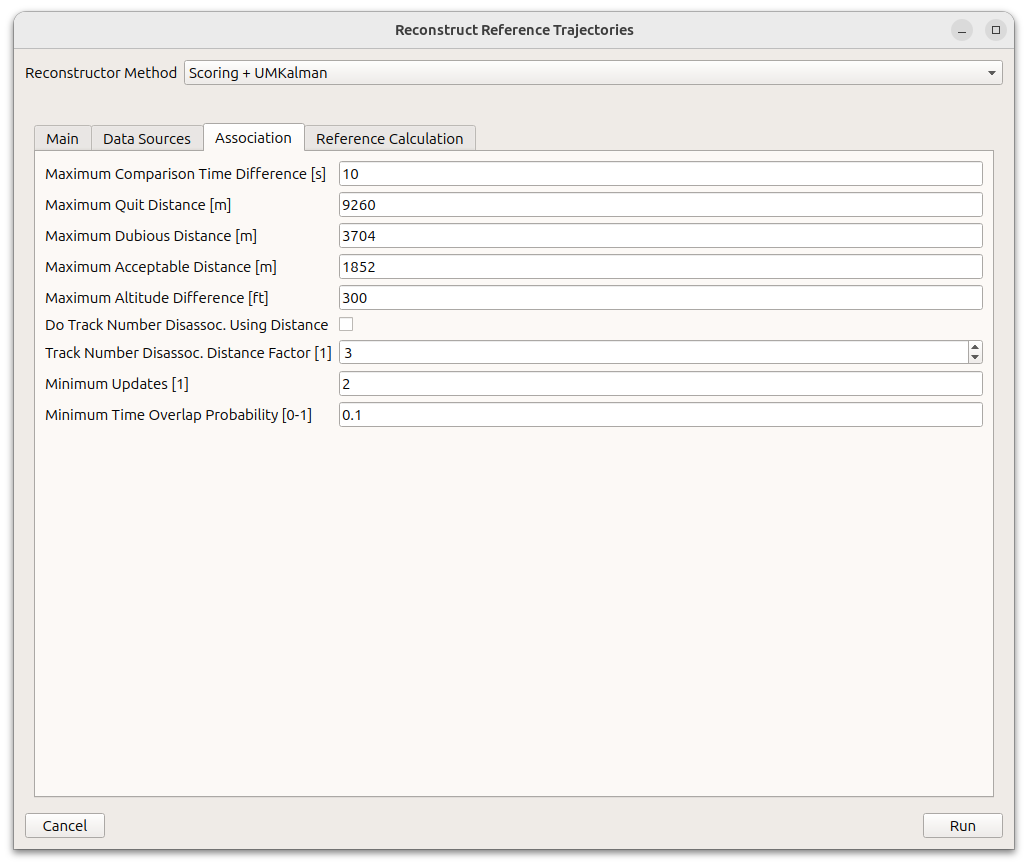
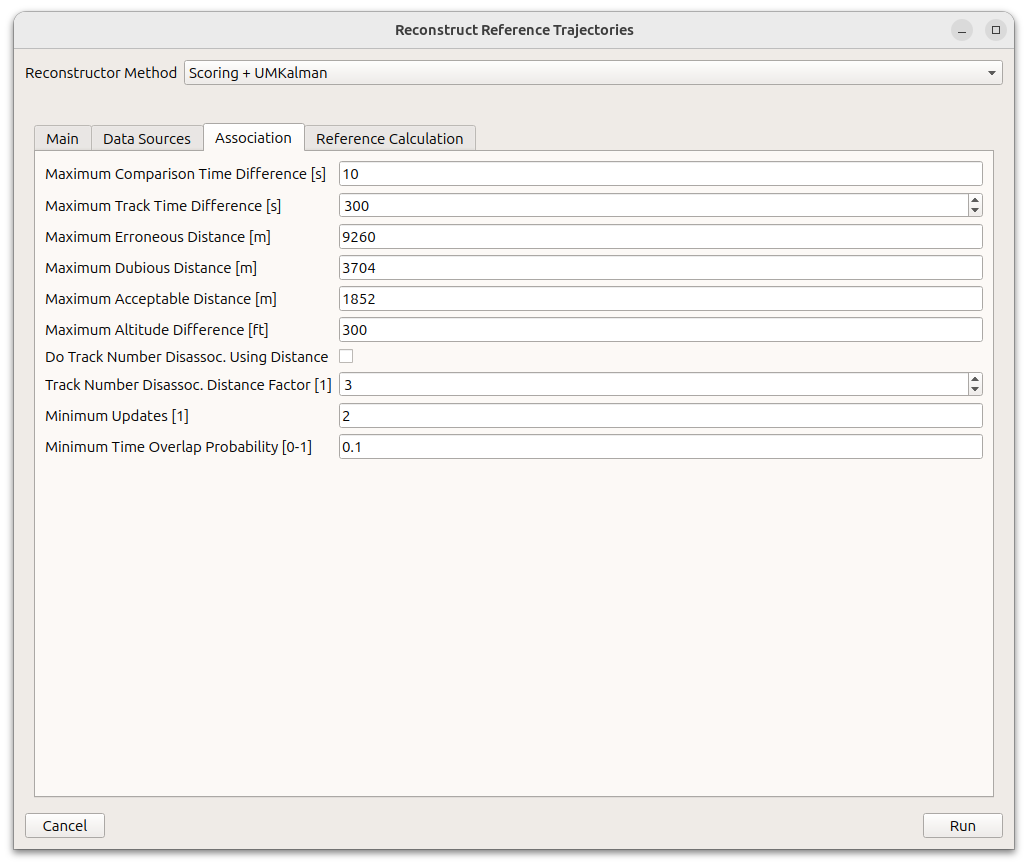
param naming and doc

Changed region(s): [[0.0311, 0.2182, 0.965, 0.53], [0.9339, 0.2182, 0.965, 0.2494]]

diff --git a/doc/user_manual/reconst/reconstructor.tex b/doc/user_manual/reconst/reconstructor.tex
@@ -53,7 +53,7 @@ For each processed slice, the following general steps are performed:
 \end{itemize}
 \ \\
 
-There are several algorithmic features of interest, which are described in the following chapters, but deeper discussion is ouside the scope of this document.
+There are several algorithmic features of interest, which are described in the following chapters, but deeper discussion is outside the scope of this document.
 
 \subsection{Associate Target Reports to Targets}
 
@@ -66,33 +66,42 @@ The following steps are performed for each target report:
 \begin{itemize}
 \item Ignoring "00000000", "????????", "        " values
 \end{itemize}
-\item CAT062/Reference Trajectory Track number
+\item CAT062/Reference Trajectory Track number (data source + line specific)
 \end{itemize}
 \item Otherwise, associate by matching Mode A/C and position
 \item Otherwise, associate by position only
+\item If a matching target is found, the best match is used for association
+\item If no matching target is found
+\begin{itemize}
+\item If the target report has Mode S address/identification or a reliable Track Number, a new target is created
+\item Otherwise no association is made (stored for later retry-association)
 \end{itemize}
 \ \\
 
-If a match can be made, the target report is associated to the specific UTN, which in turn (can) update the respective lookup lists.
+If a match can be made, the match is verified - e.g. the matching based on Track Number can be changed if e.g. the time difference to the last target update is larger than the 'Maximum Track Time Difference' parameter, or of the distance threshold is larger than the 'Track Number Disassoc. Distance Factor', assuming the 'Do Track Number Disassoc. Using Distance' is set. \\
+
+If still valid, the target report is associated to the specific UTN, which in turn updates the respective lookup lists.
 
 \subsubsection{Position Matching}
-sdf
+
+For considering a position match, a position score is calculated for each target report, to all possible targets. In the case of 'Scoring + UMKalman', the distance offsets (target report to interpolated target position at time of target report) are compared to the 'Maximum Acceptable Offset', and only associated to the best match if within such a distance.
 
 \subsubsection{New Target Creation}
-sdf2
+
+When creating a new target using a target report, the secondary attributes are stored in the lookup lists of targets.
 
 \subsection{Self-associate New Targets}
 
+For all newly created targets, matching other targets are checked if a positive score would allow merging the target pair. This allows merging created targets even if single target reports (e.g. during the somewhat unstable beginning of tracking) did not allow for it.
+
 \begin{itemize}
-\item Per-source target to common target association (target/target association)
-\item Score-based approach
-\item Associates new per-source targets to existing targets based on
+\item Associate new per-source targets to existing targets based on
 \begin{itemize}
 \item Mode S address
 \item Time overlap
-\item Mode A code(s) similiarity (only if minimum time overlap is given)
-\item Mode C code(s) similiarity (only if Mode A similiarity is given)
-\item Position similiarity (only if Mode A/C similiarity is given)
+\item Mode A code(s) similarity (only if minimum time overlap is given)
+\item Mode C code(s) similarity (only if Mode A similarity is given)
+\item Position similarity
 \end{itemize}
 \end{itemize}
 \ \\
@@ -107,11 +116,7 @@ The following steps are performed for each sensor data source:
 \item Mode C code similiarity (if present)
 \item Position similiarity
 \end{itemize}
-\item If a matching target is found, the best match is used for association
-\item If no matching target is found
-\begin{itemize}
-\item If the target report has Mode S address, a new target is created
-\item Otherwise no association is made
+
 \end{itemize}
 \end{itemize}
 \ \\

diff --git a/src/task/reconstructor/simplereconstructorassociationwidget.cpp b/src/task/reconstructor/simplereconstructorassociationwidget.cpp
@@ -48,12 +48,12 @@ SimpleReconstructorAssociationWidget::SimpleReconstructorAssociationWidget(
     //    QLineEdit* max_distance_quit_tracker_edit_{nullptr};
     ++row;
 
-    layout->addWidget(new QLabel("Maximum Quit Distance [m]"), row, 0);
+    layout->addWidget(new QLabel("Maximum Erroneous Distance [m]"), row, 0);
 
-    max_distance_quit_edit_ = new QLineEdit();
-    connect(max_distance_quit_edit_, &QLineEdit::textEdited,
-            this, &SimpleReconstructorAssociationWidget::maxDistanceQuitEditedSlot);
-    layout->addWidget(max_distance_quit_edit_, row, 1);
+    max_distance_notok_edit_ = new QLineEdit();
+    connect(max_distance_notok_edit_, &QLineEdit::textEdited,
+            this, &SimpleReconstructorAssociationWidget::maxDistanceNotOKEditedSlot);
+    layout->addWidget(max_distance_notok_edit_, row, 1);
 
     //    QLineEdit* max_distance_dubious_tracker_edit_{nullptr};
     ++row;
@@ -154,8 +154,8 @@ void SimpleReconstructorAssociationWidget::updateValues()
     max_time_diff_tracker_edit_->setValue(reconstructor_.settings().track_max_time_diff_);
 
     //    QLineEdit* max_distance_quit_tracker_edit_{nullptr};
-    assert (max_distance_quit_edit_);
-    max_distance_quit_edit_->setText(QString::number(reconstructor_.settings().max_distance_quit_));
+    assert (max_distance_notok_edit_);
+    max_distance_notok_edit_->setText(QString::number(reconstructor_.settings().max_distance_notok_));
 
     //    QLineEdit* max_distance_dubious_tracker_edit_{nullptr};
     assert (max_distance_dubious_edit_);
@@ -215,20 +215,20 @@ void SimpleReconstructorAssociationWidget::maxTimeDiffTrackerEditedSlot (int val
     reconstructor_.settings().track_max_time_diff_ = value;
 }
 
-void SimpleReconstructorAssociationWidget::maxDistanceQuitEditedSlot (const QString& text)
+void SimpleReconstructorAssociationWidget::maxDistanceNotOKEditedSlot (const QString& text)
 {
     string value_str = text.toStdString();
 
-    loginf << "SimpleReconstructorAssociationWidget: maxDistanceQuitEditedSlot: value '" << value_str << "'";
+    loginf << "SimpleReconstructorAssociationWidget: maxDistanceNotOKEditedSlot: value '" << value_str << "'";
 
     bool ok;
 
     double value = text.toDouble(&ok);
 
     if (ok)
-        reconstructor_.settings().max_distance_quit_ = value;
+        reconstructor_.settings().max_distance_notok_ = value;
     else
-        logwrn << "SimpleReconstructorAssociationWidget: maxDistanceQuitEditedSlot: unable to parse value '"
+        logwrn << "SimpleReconstructorAssociationWidget: maxDistanceNotOKEditedSlot: unable to parse value '"
                << value_str << "'";
 }
 

diff --git a/doc/user_manual/reconst/reconstructor_config.tex b/doc/user_manual/reconst/reconstructor_config.tex
@@ -62,7 +62,8 @@ In this tab, the association parameters can be set, i.e. the thresholds used to 
     \hline
     \textbf{Parameter} & \textbf{Default} &  \textbf{Description} \\ \hline
     Maximum Comparison Time Difference [s] & 15 & Maximum time delta for any code/position comparison \\ \hline
-    Maximum Quit Distance [m] & 18520 & Target/target association \\ \hline
+    Maximum Track Time Difference [s] & 300 & Maximum time delta to a previously associated track \\ \hline
+    Maximum Erroneous Distance [m] & 18520 & Target/target association \\ \hline
     Maximum Dubious Distance [m] & 5556 & Target/target association \\ \hline
     Maximum Acceptable Distance [m] & 1852 & Target/target association \\ \hline
     Maximum Altitude Difference [ft] & 300 & Maximum altitude difference \\ \hline
@@ -122,7 +123,7 @@ Please \textbf{note} that a detailed discussion of the given parameters is out o
     \caption{Probabilistic + IMM Reconstruction Parameters}
 \end{figure}
 
-The given parameters are the same as discussed as with the 'Scoring \& UMKalman' chapter, please refer to \nameref{sec:reconst_scorum_ref_calc} for details.
+The given parameters are the same as discussed as with the 'Scoring + UMKalman' chapter, please refer to \nameref{sec:reconst_scorum_ref_calc} for details.
 
 \subsubsection{Analyse}
 

diff --git a/src/task/reconstructor/simplereconstructorassociationwidget.h b/src/task/reconstructor/simplereconstructorassociationwidget.h
@@ -18,7 +18,7 @@ public slots:
     void maxTimeDiffEditedSlot (const QString& text);
     void maxTimeDiffTrackerEditedSlot (int value);
 
-    void maxDistanceQuitEditedSlot (const QString& text);
+    void maxDistanceNotOKEditedSlot (const QString& text);
     void maxDistanceDubiousEditedSlot (const QString& text);
     void maxDistanceAcceptableEditedSlot (const QString& text);
     void maxAltitudeDiffEditedSlot (const QString& text);
@@ -47,7 +47,7 @@ private:
     QLineEdit* max_time_diff_edit_{nullptr};
     QSpinBox* max_time_diff_tracker_edit_{nullptr};
 
-    QLineEdit* max_distance_quit_edit_{nullptr};
+    QLineEdit* max_distance_notok_edit_{nullptr};
     QLineEdit* max_distance_dubious_edit_{nullptr};
     QLineEdit* max_positions_dubious_edit_{nullptr};
     QLineEdit* max_distance_acceptable_edit_{nullptr};

diff --git a/src/task/reconstructor/simplereconstructor.cpp b/src/task/reconstructor/simplereconstructor.cpp
@@ -22,7 +22,7 @@ SimpleReconstructor::SimpleReconstructor(const std::string& class_id,
     , associatior_   (*this)
     , ref_calculator_(*this)
 {
-    registerParameter("max_distance_quit", &settings_.max_distance_quit_, 5*NM2M); // kb 5nm
+    registerParameter("max_distance_notok", &settings_.max_distance_notok_, 5*NM2M); // kb 5nm
     registerParameter("max_distance_dubious", &settings_.max_distance_dubious_, 2*NM2M);
     registerParameter("max_distance_acceptable", &settings_.max_distance_acceptable_, 1*NM2M);
 

diff --git a/doc/user_manual/intro/intro_key_concepts.tex b/doc/user_manual/intro/intro_key_concepts.tex
@@ -186,3 +186,7 @@ Based on reference and test data source(s), evaluation of configurable standards
 
 Each view can be configured to the users needs, to suit various use-cases. For each type of view, a number of pre-defined (default) presets are delivered, which can be used to conveniently set a number of configuration options for specific display purposes. Existing presets can be changed and overridden, also new ones can be created.
 
+\subsection*{View Points}
+
+\hl{TODO}
+

diff --git a/src/task/reconstructor/simpleassociator.cpp b/src/task/reconstructor/simpleassociator.cpp
@@ -235,7 +235,7 @@ SimpleAssociator::checkPositionOffsetScore (double distance_m, double sum_stddev
 
     DistanceClassification classif;
 
-    if (distance_m > settings.max_distance_quit_)
+    if (distance_m > settings.max_distance_notok_)
         classif = DistanceClassification::Distance_NotOK;
     else if (distance_m > settings.max_distance_dubious_)
         classif = DistanceClassification::Distance_Dubious;

diff --git a/src/task/reconstructor/simplereconstructor.h b/src/task/reconstructor/simplereconstructor.h
@@ -11,7 +11,7 @@ class SimpleReconstructorSettings : public ReconstructorBaseSettings
   public:
     SimpleReconstructorSettings() {};
 
-    double max_distance_quit_ {5*NM2M};
+    double max_distance_notok_ {5*NM2M};
     double max_distance_dubious_ {2*NM2M};
     double max_distance_acceptable_ {1*NM2M};
 };
